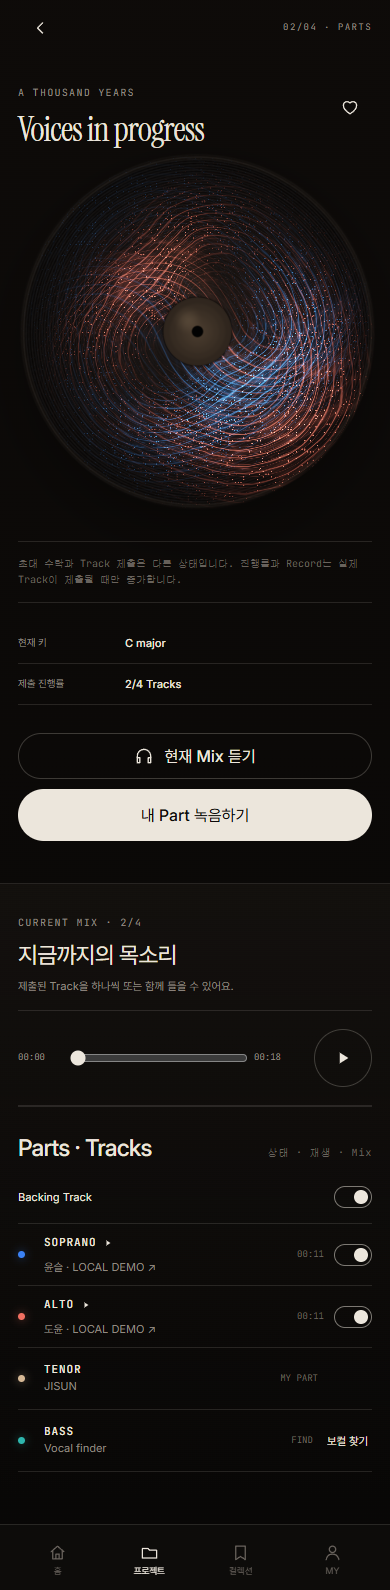
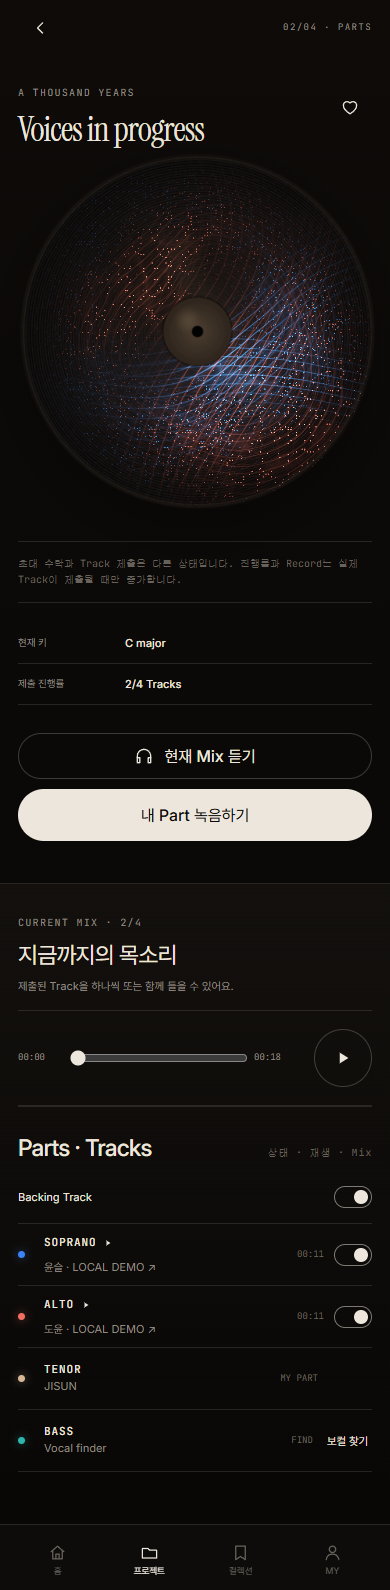
Shape resonance layers into directional streams

Changed region(s): [[0.1846, 0.1233, 0.9231, 0.3082]]

diff --git a/src/App.jsx b/src/App.jsx
@@ -220,20 +220,26 @@ void main(){
   float flowNoise=fbm(polar*2.45+vec2((r-center)*12.+seed,-(r-center)*10.+seed*.4));
   float fibers=pow(.5+.5*cos((r-center)*132.+flowNoise*5.5+sin(theta*3.+seed)*1.1),22.);
   float hair=pow(.5+.5*cos((r-center)*248.+flowNoise*8.5+sin(theta*5.-seed)*.8),28.);
-  float flowAngle=b.x+seed*.17+r*1.55;float cs=cos(flowAngle),sn=sin(flowAngle);vec2 flowP=mat2(cs,-sn,sn,cs)*p;
-  vec2 organicP=flowP*vec2(5.4,8.6);float domain=fbm(organicP*.34+vec2(seed,-seed*.37));
+  float flowAngle=b.x*.72+seed*.17;float cs=cos(flowAngle),sn=sin(flowAngle);vec2 flowP=mat2(cs,-sn,sn,cs)*p;
+  vec2 organicP=flowP*vec2(4.2,6.8);float domain=fbm(organicP*.31+vec2(seed,-seed*.37));
   float ridge=pow(1.-abs(noise(organicP+vec2(domain*3.1,-domain*2.4))*2.-1.),4.6);
   float ridgeFine=pow(1.-abs(noise(organicP*1.72+vec2(-domain*2.2,domain*2.8))*2.-1.),8.5);
-  float plumeCurve=flowP.y-flowP.x*.12-sin(flowP.x*2.8+seed)*(.14+a.w*.018)-sin(flowP.x*6.1-seed)*.025;
-  float plumeWidth=.075+a.z*.62;float plume=exp(-1.8*plumeCurve*plumeCurve/(plumeWidth*plumeWidth))*smoothstep(1.02,.16,abs(flowP.x));
-  float plumeFibers=pow(.5+.5*cos(plumeCurve*112.+domain*6.5),22.);
+  float bend=sin(flowP.x*2.15+seed*1.7)*(.2+a.w*.025)+sin(flowP.x*4.7-seed)*.035;
+  float plumeCurve=flowP.y-flowP.x*.16-bend;
+  float plumeCurve2=flowP.y+.32+flowP.x*.08-sin(flowP.x*1.72+seed*1.3+1.8)*(.13+a.w*.016);
+  float plumeWidth=.12+a.z*.68;float plumeEnvelope=smoothstep(1.08,.2,abs(flowP.x));
+  float plume=exp(-1.62*plumeCurve*plumeCurve/(plumeWidth*plumeWidth))*plumeEnvelope;
+  float plume2=exp(-2.15*plumeCurve2*plumeCurve2/(plumeWidth*plumeWidth*.72))*plumeEnvelope;
+  float plumeFibers=pow(.5+.5*cos(plumeCurve*105.+domain*4.2+flowP.x*5.8),24.);
+  float plumeFibers2=pow(.5+.5*cos(plumeCurve2*124.+domain*4.8-flowP.x*4.1),26.);
   vec2 sparkGrid=(p+vec2(seed*.01))*uResolution.x*.18;vec2 sparkCell=floor(sparkGrid);vec2 sparkUv=fract(sparkGrid)-.5;
   float sparkShape=smoothstep(.34,.035,length(sparkUv));float spark=sparkShape*step(.9,hash21(sparkCell+seed))*ribbon*presence;
   vec2 pinGrid=(p+vec2(seed*.013))*uResolution.x*.31;vec2 pinCell=floor(pinGrid);vec2 pinUv=fract(pinGrid)-.5;
   float pinShape=smoothstep(.22,.018,length(pinUv));float pin=pinShape*step(.94,hash21(pinCell-seed))*ribbon*presence;
-  float colorHaze=ribbon*presence*(.013+flowNoise*.01)+plume*(.005+domain*.004);
-  float ringFlow=ribbon*presence*(.012+fibers*.84+hair*.34+ridge*.17+ridgeFine*.1);
-  float crossingFlow=plume*(.004+plumeFibers*.68+ridge*.14+ridgeFine*.08)*(.22+.78*presence);
+  float colorHaze=ribbon*presence*(.009+flowNoise*.007)+(plume+plume2)*(.008+domain*.005);
+  float ringFlow=ribbon*presence*(.007+fibers*.19+hair*.08+ridge*.08+ridgeFine*.05);
+  float streamWindow=.025+.975*pow(presence,1.42);
+  float crossingFlow=(plume*(.006+plumeFibers*.96+ridge*.12+ridgeFine*.07)+plume2*(.004+plumeFibers2*.62+ridgeFine*.08))*streamWindow;
   float intensity=colorHaze+ringFlow+crossingFlow+spark*3.1+pin*3.4;
   intensity*=.72+b.y*.78+live*uLiveLevel*.55;col+=voiceColor(i)*intensity;
  }
